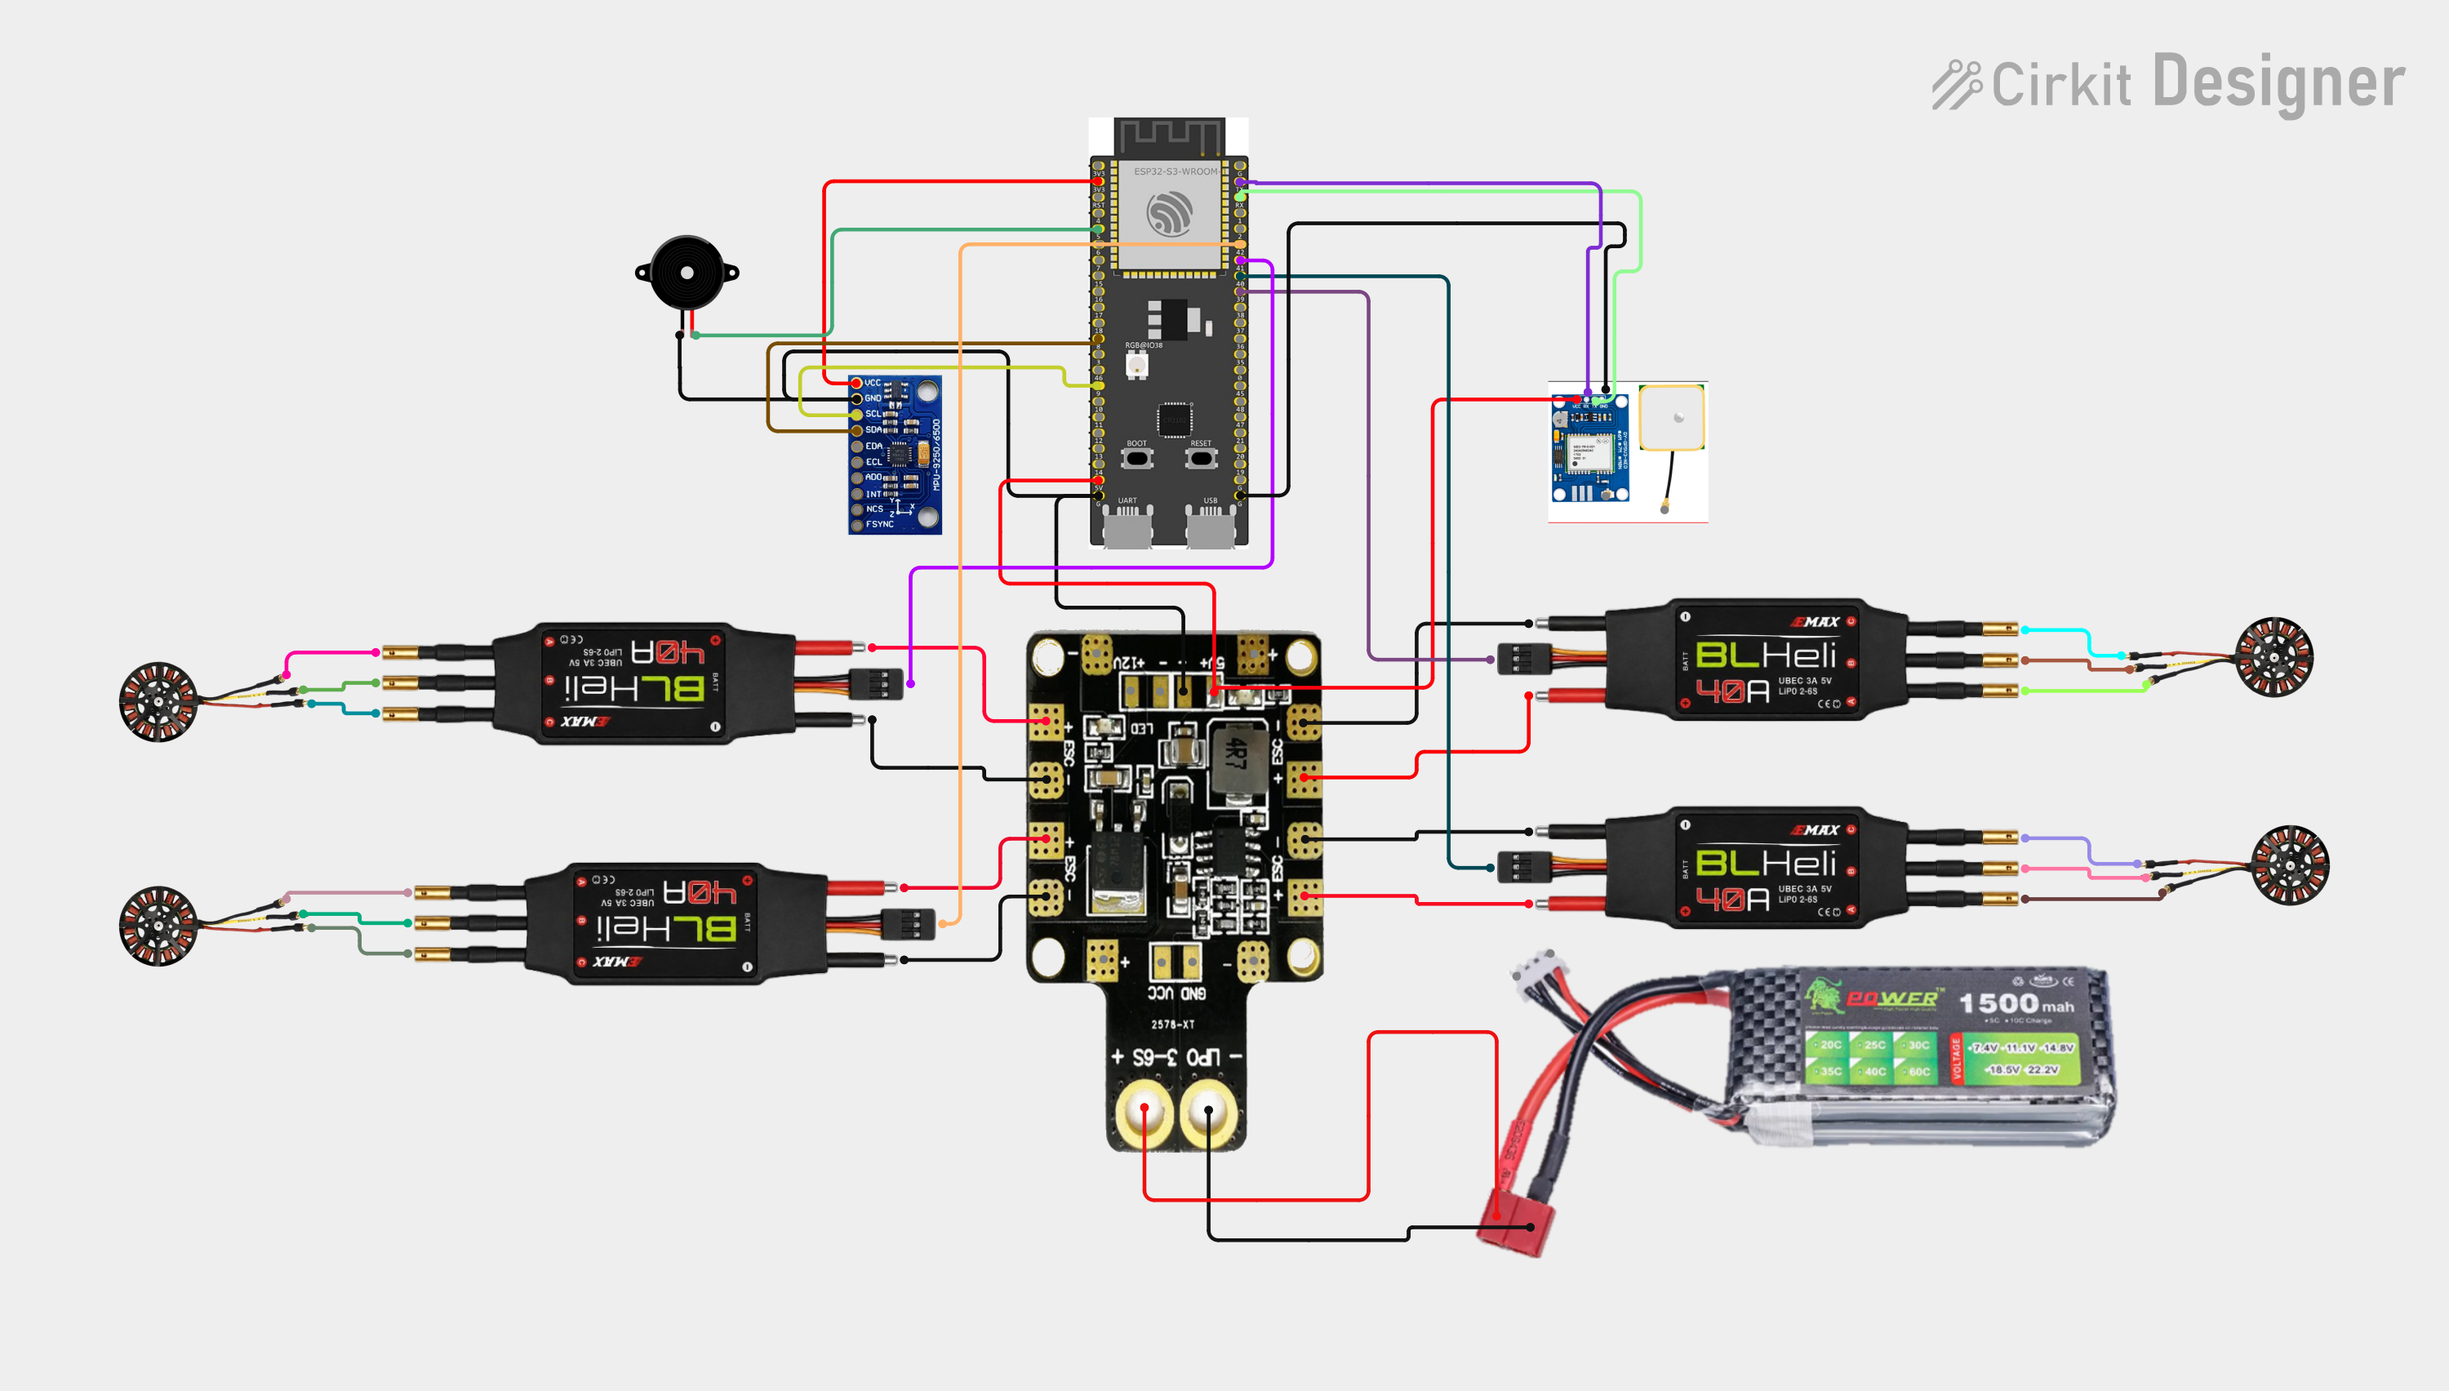
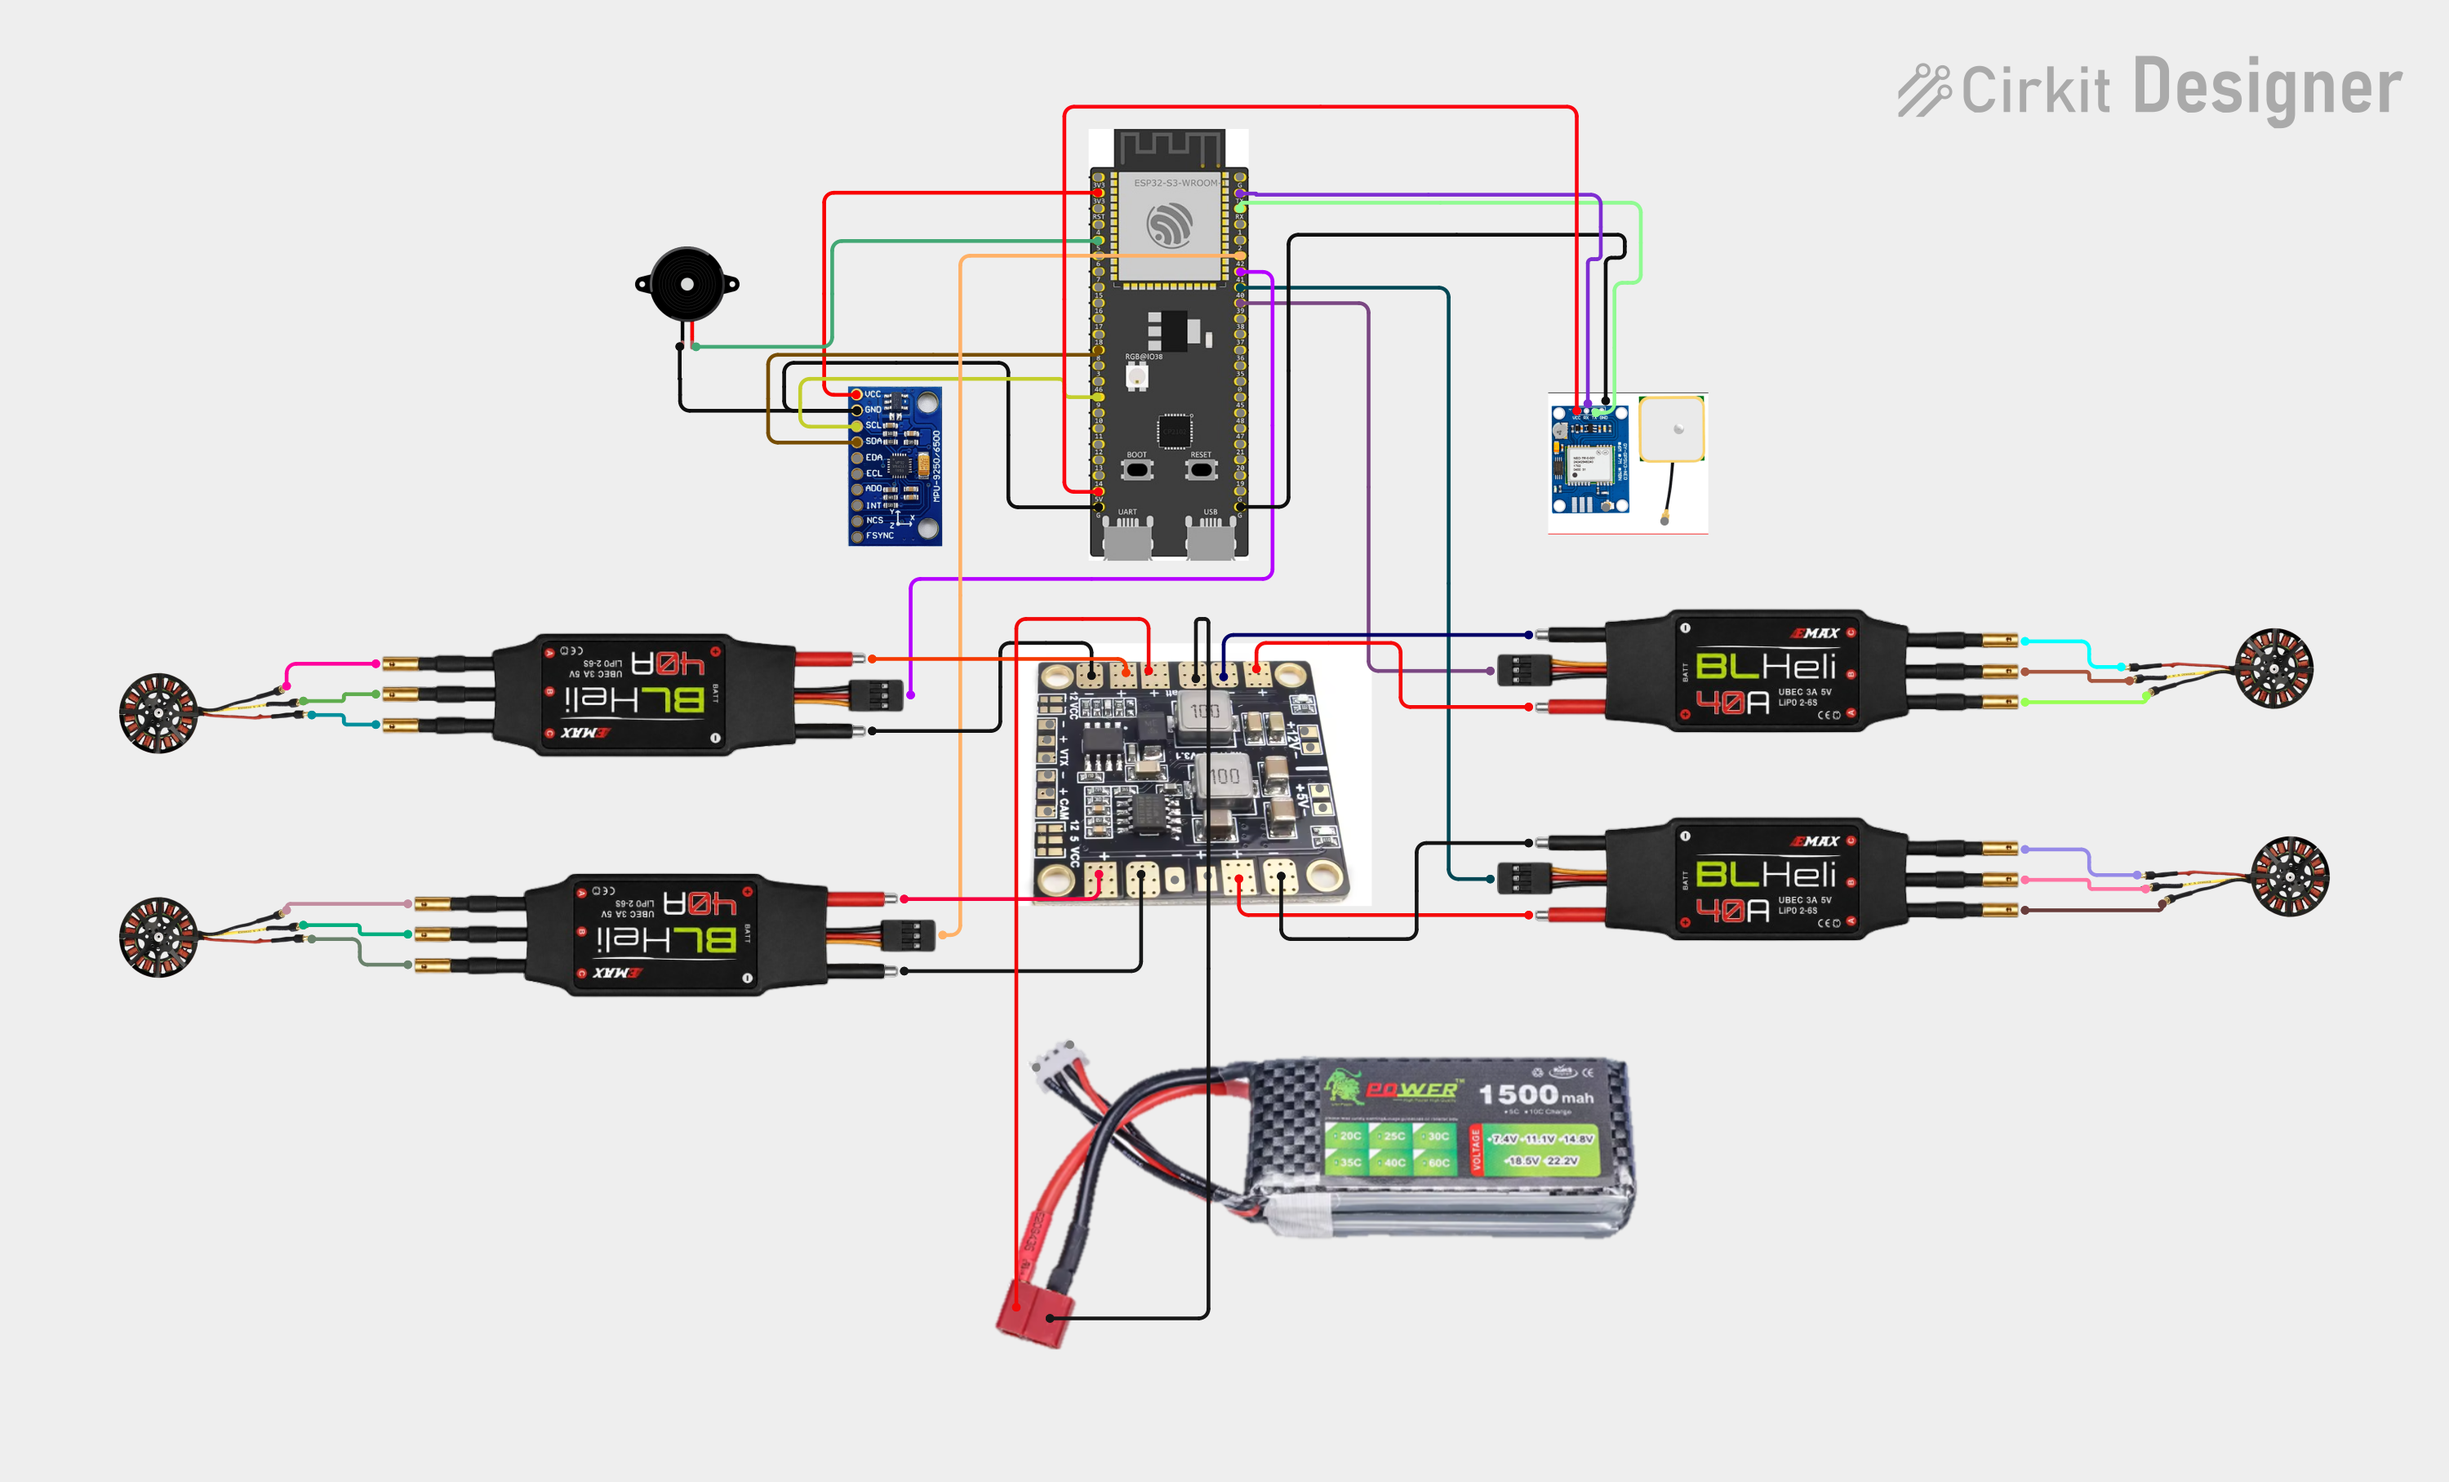
ajustando las imageenes a algo mas realista

diff --git a/README.md b/README.md
@@ -141,4 +141,5 @@ El objetivo es aprender y experimentar con control, visión artificial y una int
 
 En el siguiente video se muestra una demostración breve del dron:
 
-<video controls src="espDrone.mp4" title="Drone esp32s3 prueba3"></video>
+[<video controls src="espDrone.mp4" title="Drone esp32s3 prueba3"></video>](https://github.com/user-attachments/assets/94c9c0ed-9916-4506-8711-b0cd693fc270)
+
